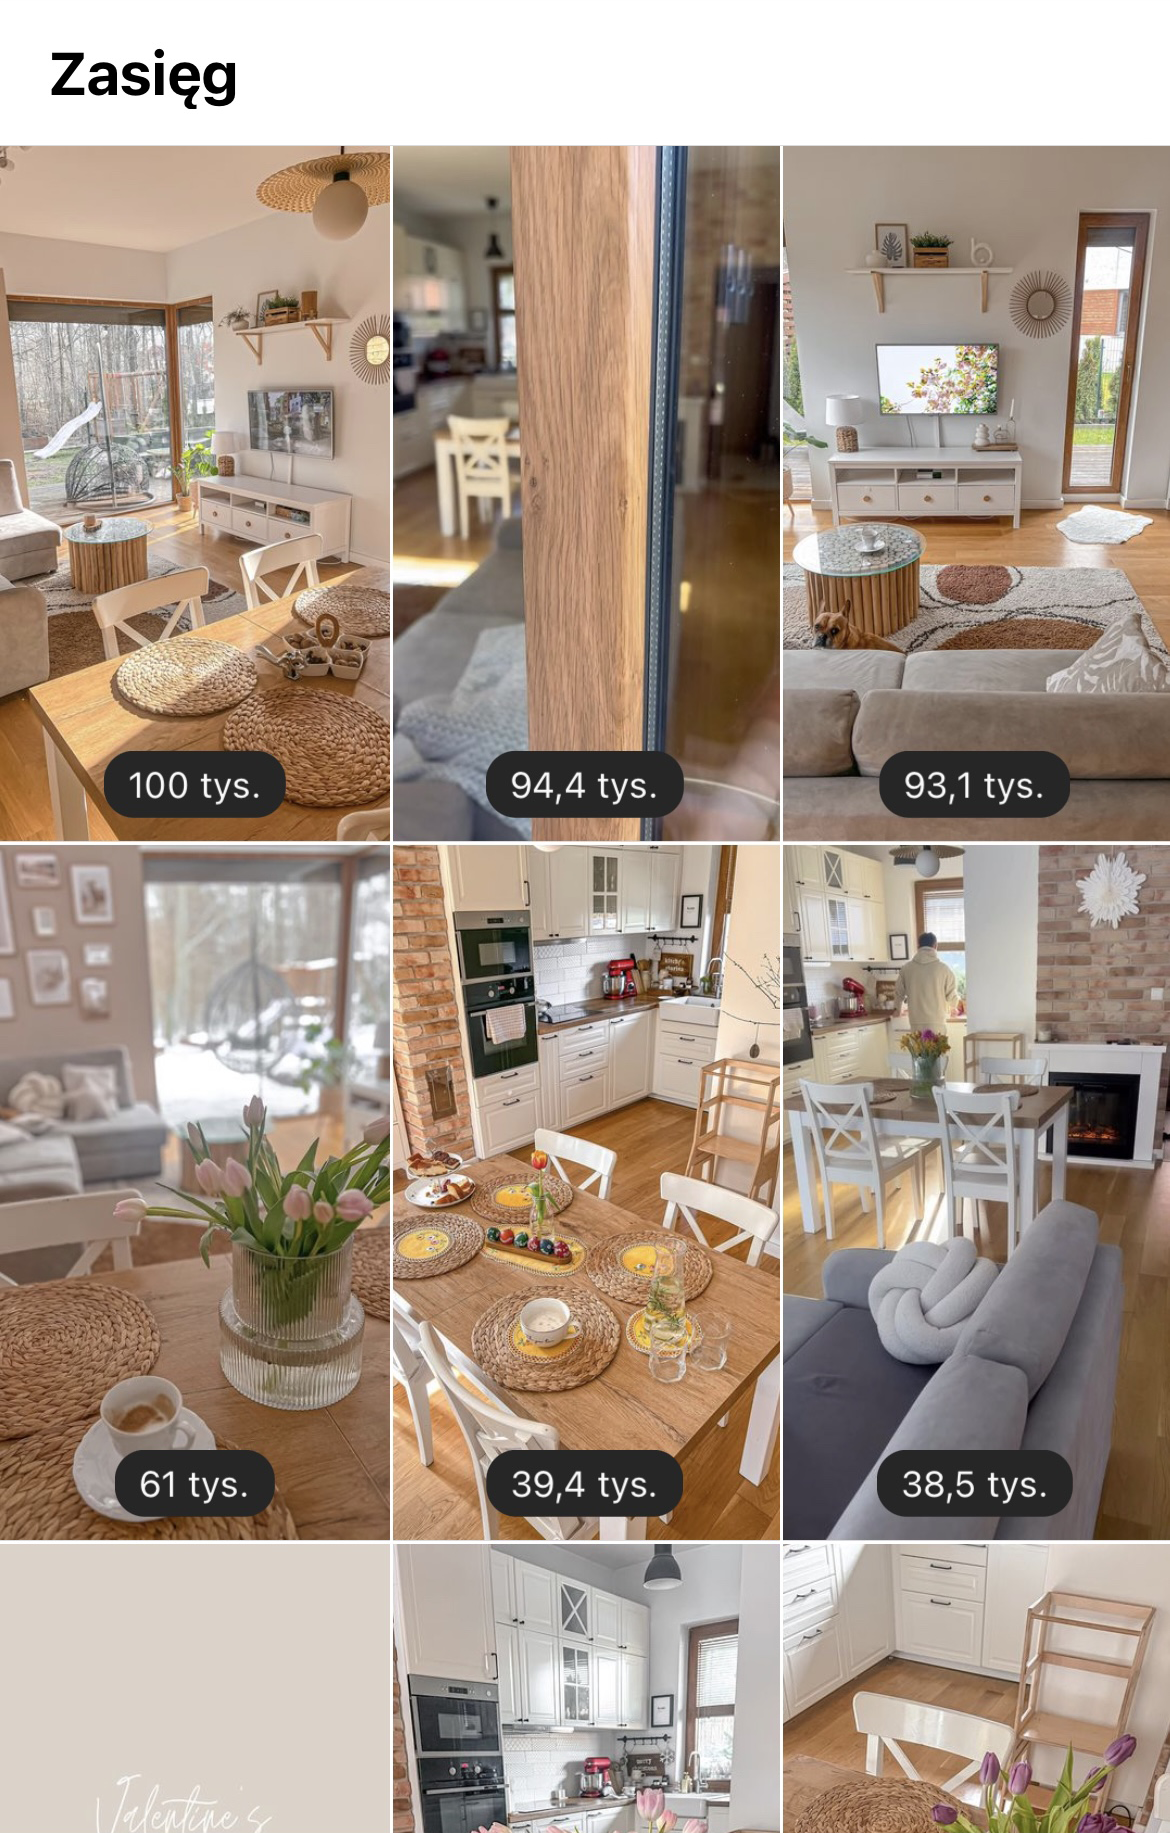
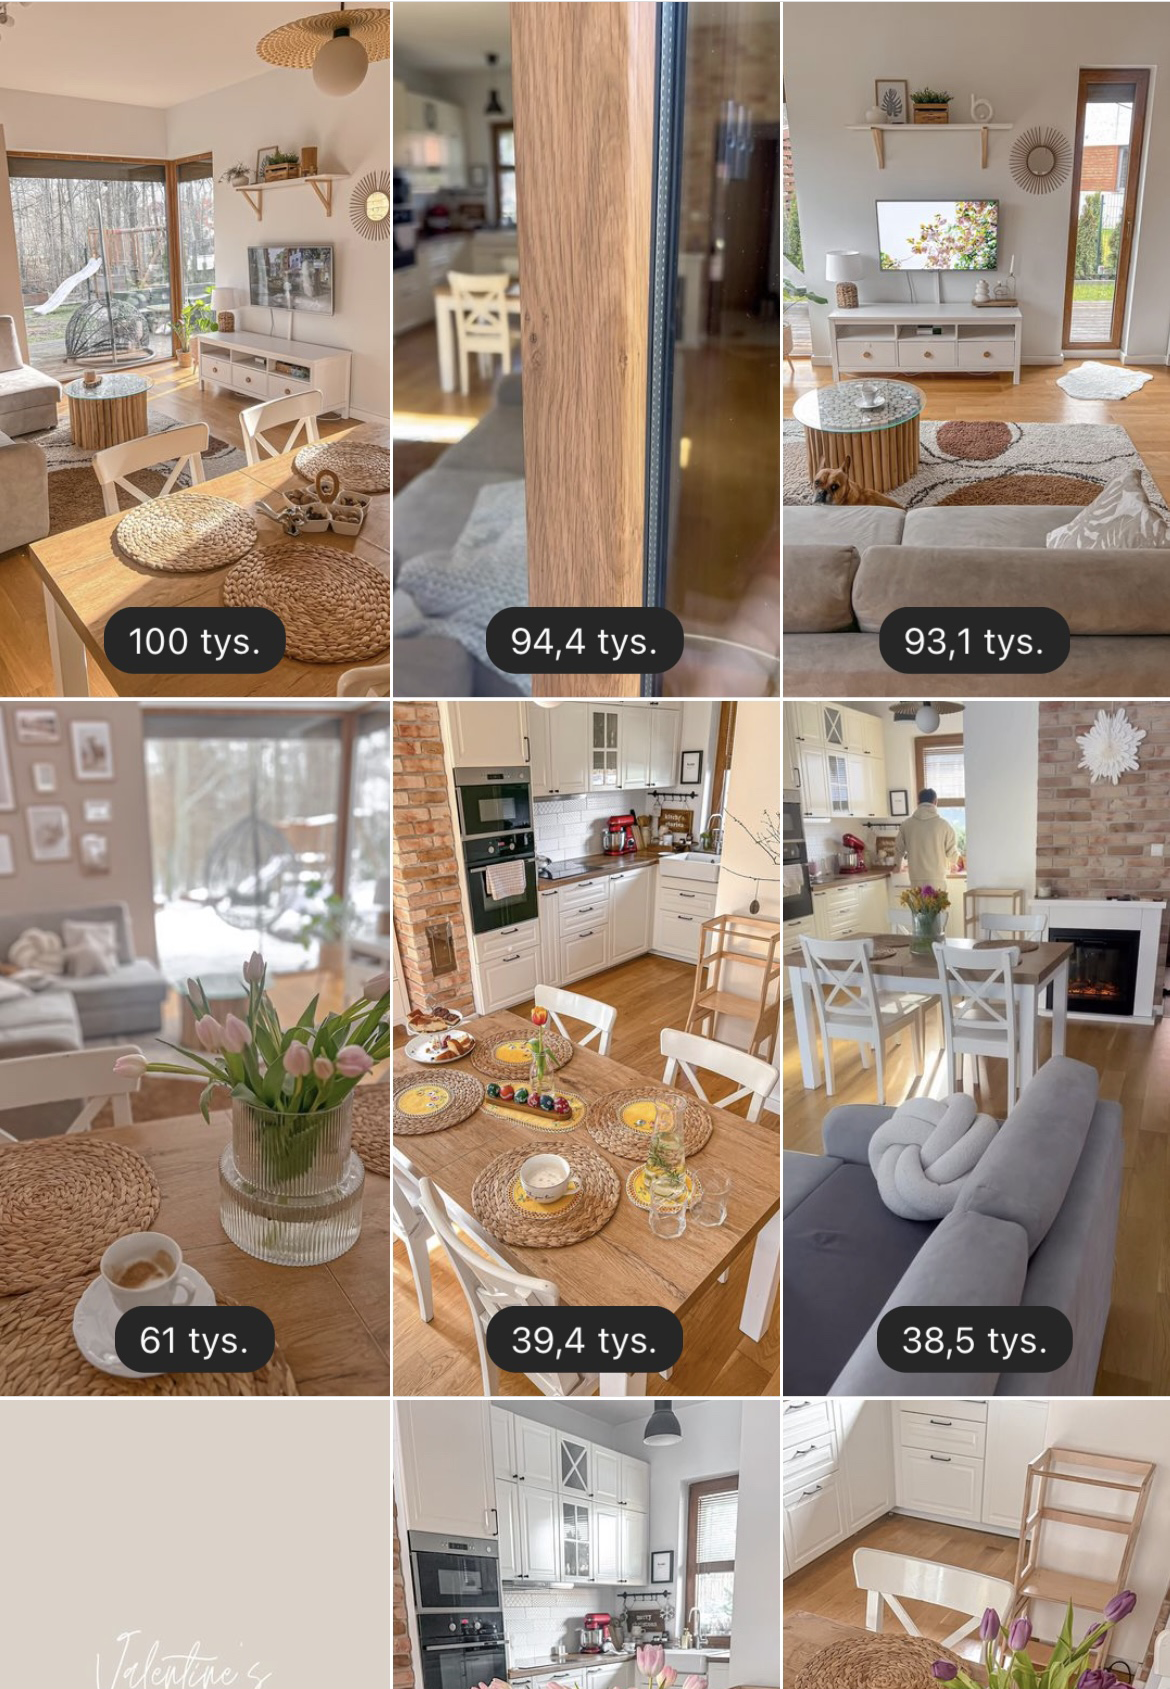
styling stats subpage

diff --git a/src/pages/InstaData.tsx b/src/pages/InstaData.tsx
@@ -1,0 +1,46 @@
+import styles from './InstaData.module.css';
+import ContactSection from '../components/ContactSection';
+import { screenList } from '../screenList';
+
+const InstaStats: React.FC = () => {
+  const screenItems = screenList.map(item => {
+    return (
+      <div className={styles.screen_block} key={item.id}>
+        <h3 className={styles.screen_title}>{item.title}</h3>
+        <img className={styles.screen_image} src={item.image as string} alt='instagram-screenshot' />
+      </div>
+    );
+  });
+  return (
+    <section id='insta-stats' className={styles.data_section}>
+      <div className={styles.intro_container}>
+        <h2 className={styles.intro_heading}>Statystyki z Instagrama</h2>
+      </div>
+      <div className={styles.data_wrapper}>
+        <img
+          className={styles.logo}
+          src={require('../images/stowidokow_home.png')}
+          alt='logo'
+        />
+        <p>
+          Zapraszam do zapoznania się ze statystykami na moim Instagramie(ponad
+          115 tys. obserwujących) Znajdziesz tutaj kilka ciekawych informacji
+          dotyczący zasięgów zdjęć i rolek. Dowiesz się również, jakie posty
+          przyciągają największą uwagę i jakie treści generują najwięcej
+          zaangażowania, a także jakie grupy odbiorców najchętniej odwiedzają
+          moje konto.
+        </p>
+        <p>
+          Jeśli jesteś zainteresowany/a reklamą lub współpracą na moich kanałach
+          SM, daj znać poprzez <a href='#contacts'>Kontakt</a>
+        </p>
+        <div className={styles.screens_container}>
+          {screenItems}
+        </div>
+      </div>
+      <ContactSection />
+    </section>
+  );
+};
+
+export default InstaStats;

diff --git a/src/pages/InstaData.module.css b/src/pages/InstaData.module.css
@@ -1,0 +1,48 @@
+
+.intro_container {
+  width: 100%;
+  display: flex;
+  flex-direction: column;
+  color: var(--white);
+  align-items: center;
+  padding: 20px;
+  padding-top: 30px;
+  background-color: var(--beige);
+}
+.intro_heading {
+  width: 100%;
+  border-left: 5px solid;
+  border-image: linear-gradient(to top, #f09433, #bc1888) 1;
+  padding: 10px 20px 10px 20px;
+  text-transform: uppercase;
+  font-size: 2.8rem;
+  font-weight: 500;
+  font-family: var(--font);
+}
+.data_wrapper {
+    display: flex;
+    justify-content: center;
+    align-items: center;
+    flex-direction: column;
+}
+.logo {
+    padding: 120px 30px 30px 30px;
+    max-width: 100%;
+    object-fit: contain;
+}
+.screens_container {
+    display: flex;
+    justify-content: center;
+    align-items: center;
+    flex-direction: column;
+}
+.screen_block {
+    display: flex;
+    justify-content: center;
+    align-items: center;
+    flex-direction: column;
+    max-width: 600px;
+}
+.screen_image {
+    width: 60%;
+}

diff --git a/src/components/ContactSection.tsx b/src/components/ContactSection.tsx
@@ -44,9 +44,13 @@ const ContactSection: React.FC = () => {
         >
           Portfolio
         </Link>
-        <a className={styles.shortcuts_links} href=''>
+        <Link
+          className={styles.shortcuts_links}
+          to='/insta-stats'
+          onClick={scrollToTop}
+        >
           Statystyki
-        </a>
+        </Link>
         <a className={styles.shortcuts_links} href=''>
           Polityka prywatności
         </a>

diff --git a/src/App.tsx b/src/App.tsx
@@ -8,7 +8,7 @@ import ContactSection from './components/ContactSection';
 import AboutMe from './pages/AboutMe';
 import Portfolio from './pages/Portfolio';
 import Footer from './components/Footer';
-import InstaStats from './pages/InstaStats';
+import InstaStats from './pages/InstaData';
 
 const App: React.FC = () => {
   const [isOverlayActive, setIsOverlayActive] = useState(false);

diff --git a/src/screenList.js b/src/screenList.js
@@ -1,0 +1,12 @@
+export const screenList = [
+  {
+    id: 1,
+    image: require('./images/range_photos.png'),
+    title: 'Zasięgi zdjęć'
+  },
+  {
+    id: 2,
+    image: require('./images/range_reels.png'),
+    title: 'Zasięgi rolek'
+  }
+];
